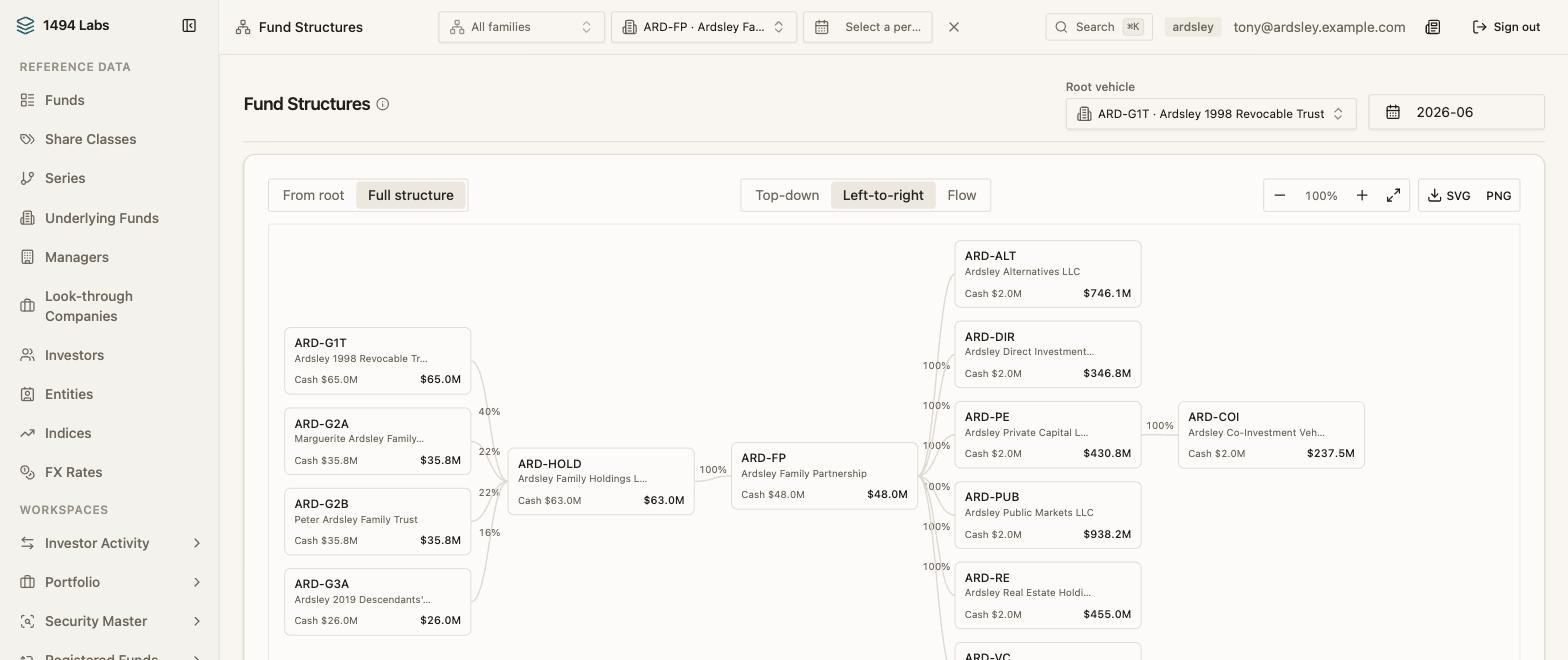
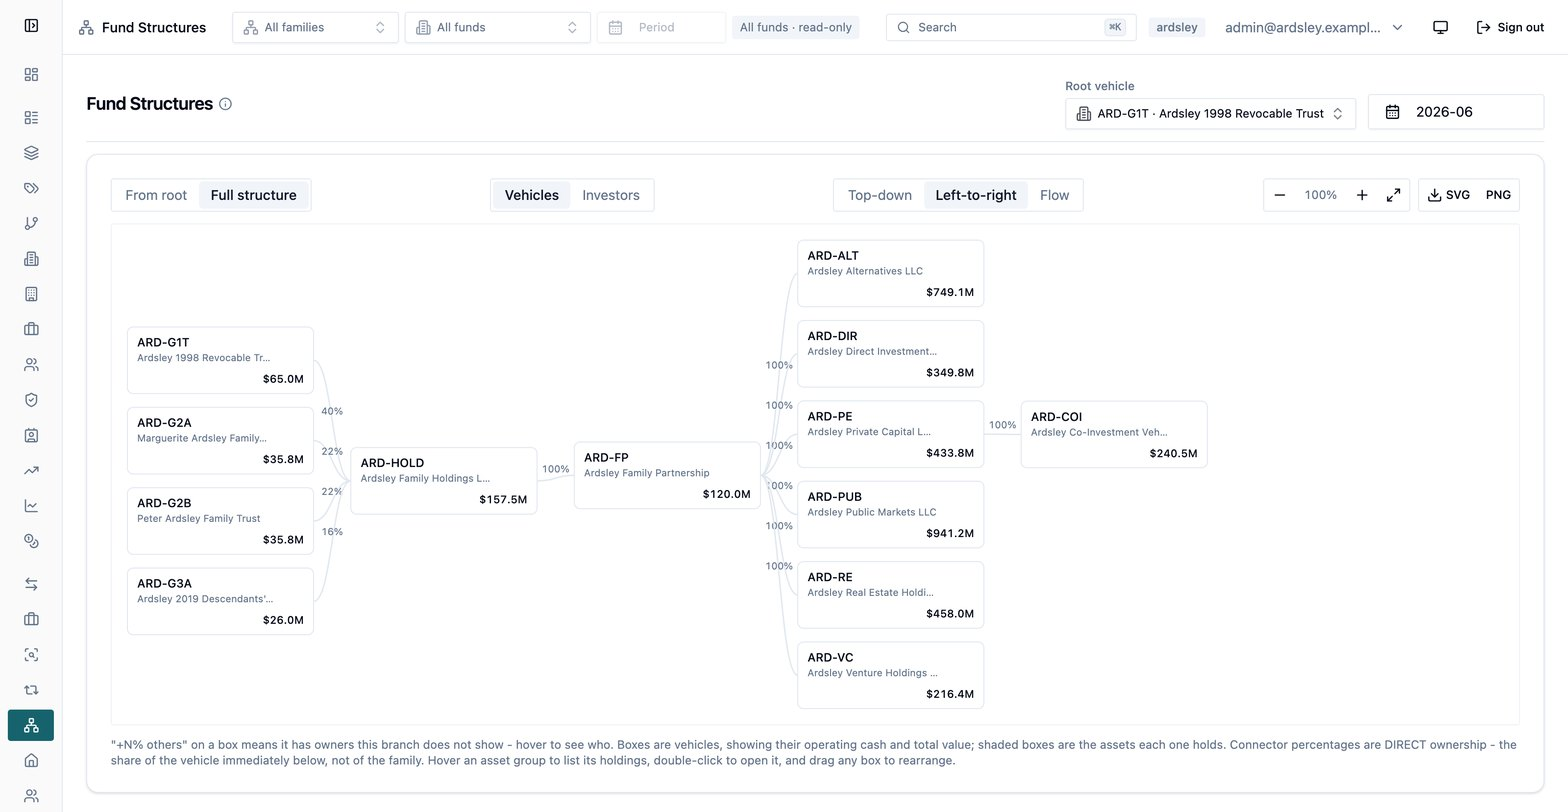
Re-shoot the last two screenshots carrying a personal login
structure-graph and structure-flow were the only published images still showing
a personal address in the account menu. Both re-shot from the same tenant with
an anonymous login; the diagram and every figure in it are unchanged.

diff --git a/family-office-accounting/index.html b/family-office-accounting/index.html
@@ -142,7 +142,7 @@
     </p>
 
     <figure class="shot">
-      <img src="/assets/screens/structure-flow.jpg" width="1568" height="646"
+      <img src="/assets/screens/structure-flow.jpg" width="1568" height="728"
            loading="lazy" decoding="async" alt="An ownership structure drawn as a flow diagram: four family trusts converging on a holding company of $3.48bn, through a family partnership, out to six asset sleeves and a co-investment vehicle.">
       <figcaption><b>Four trusts, one holding company, six sleeves.</b> Band width is the value passing <em>through</em> each vehicle, so a holding company carrying $63m of operating cash and controlling $3.48bn reads as what it is. Nobody typed a percentage.</figcaption>
     </figure>
@@ -172,7 +172,7 @@
     </p>
 
     <figure class="shot">
-      <img src="/assets/screens/structure-graph.jpg" width="1568" height="660"
+      <img src="/assets/screens/structure-graph.jpg" width="1568" height="812"
            loading="lazy" decoding="async" alt="The whole ownership structure as an org chart: four trusts, a holding company, a family partnership, six asset vehicles and a co-investment vehicle.">
       <figcaption><b>Every vehicle once, with its owners converging on it.</b> Ownership is a directed graph, not a tree, so drawing it as a forest of trees would repeat the shared vehicles once per branch.</figcaption>
     </figure>

diff --git a/index.html b/index.html
@@ -558,7 +558,7 @@ footer.site{border-top:1px solid var(--rule);padding:34px 0 56px;margin-top:clam
     </div>
 
     <figure class="shot">
-      <img src="/assets/screens/structure-flow.jpg" width="1568" height="646"
+      <img src="/assets/screens/structure-flow.jpg" width="1568" height="728"
            loading="lazy" decoding="async"
            alt="An ownership structure drawn as a flow diagram: four family trusts converging on a holding company of $3.48bn, through a family partnership, out to six asset sleeves and a co-investment vehicle.">
       <figcaption>
